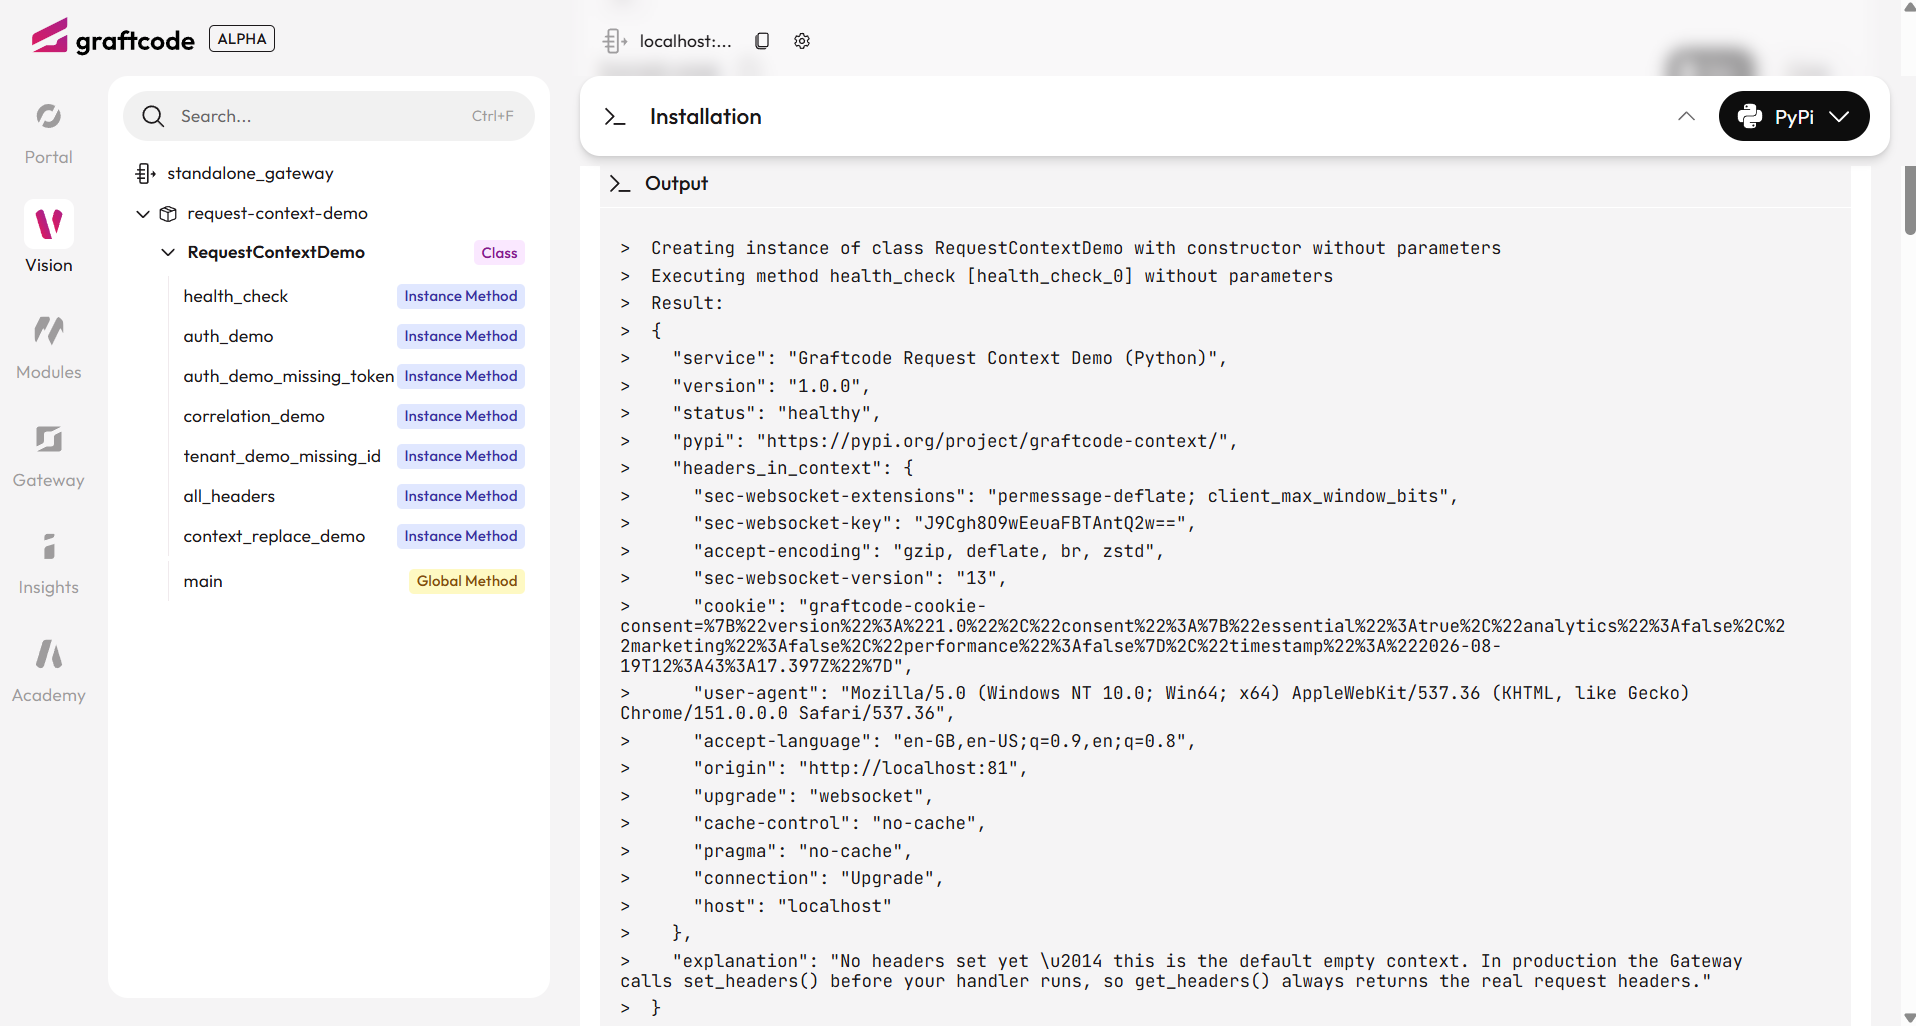
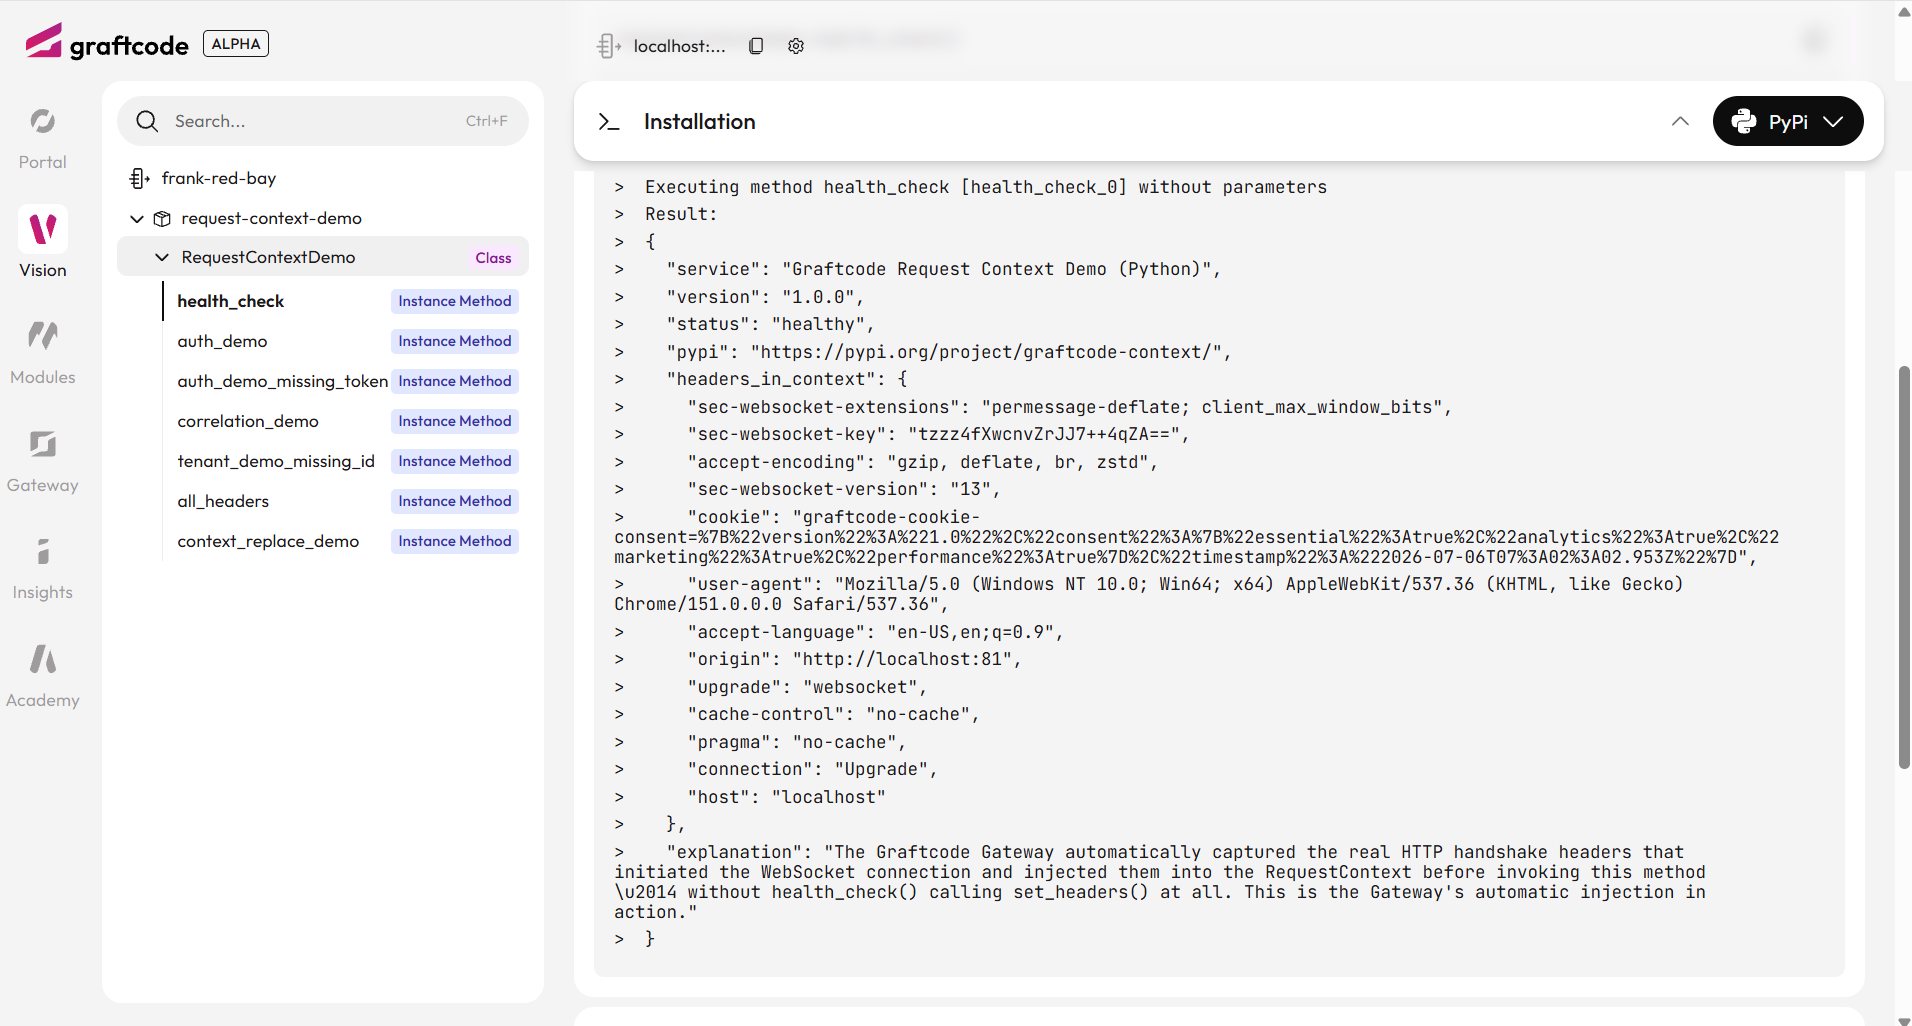
fix: Case 1 real Gateway injection, lint clean, docs accuracy
- health_check(): remove simulated set_headers(); Gateway now injects
  real WebSocket handshake headers automatically (no context bleed,
  verified against live Vision run)
- Fix Dict -> dict (F821 ruff errors) in request_context_demo.py
- Remove all PYTHONPATH=src references from README, blog, demo.py
- Remove sys.path.insert from demo.py; delete stale src/__init__.py
- Rename main -> _main in demo.py to hide from gg Vision scanner
- Fix '8 cases' -> '7 cases' in docker-compose.vision.yml and pyproject.toml
- Update README, blog, context.md: flow diagrams, comparison tables,
  and project structure tree to reflect real Gateway injection for Case 1
  and explicit set_headers() for Cases 2-7
- Update blog flow diagram and module docstring for same accuracy
- New Case 1 screenshots (real live browser headers, not hardcoded)
- Fix blog/assets/case 1 b.png filename casing in image reference

diff --git a/vision/request_context_demo.py b/vision/request_context_demo.py
@@ -12,16 +12,20 @@ How the demo works
 ------------------
 In production the Graftcode Gateway calls ``RequestContext.current().set_headers()``
 before your handler runs, binding the inbound request headers into the active
-context. Because Graftcode Vision calls methods directly (not via HTTP), each
-method simulates that step explicitly so you can see exactly what the Gateway
-does — your handler code (``RequestContext.current().get_headers()``) is
-identical in both cases.
+context. This demo shows both sides of that behaviour:
+
+- **Case 1** (``health_check``): the Gateway injects the real WebSocket handshake
+  headers automatically — the handler calls only ``get_headers()``, never
+  ``set_headers()``. This is the purest demonstration of Gateway injection.
+- **Cases 2–7**: each method calls ``set_headers()`` explicitly with headers built
+  from the Vision form input, making the injection step visible. Your handler
+  code (``get_headers()``) is identical in both Vision and production.
 
 API used (graftcode-context 1.0.0)
 -----------------------------------
-- ``RequestContext.current()``          — returns the active RequestContext
-- ``ctx.set_headers(headers)``          — sets headers on the context (Gateway calls this)
-- ``ctx.get_headers()``                 — returns the bound headers (your handler calls this)
+- ``RequestContext.current()``     — returns the active RequestContext
+- ``ctx.set_headers(headers)``     — sets headers on the context (Gateway calls this)
+- ``ctx.get_headers()``            — returns the bound headers (your handler calls this)
 """
 
 import uuid
@@ -60,11 +64,15 @@ class RequestContextDemo:
         """
         Case 1 — Health check.
 
-        Calls RequestContext.current().get_headers() with no headers set,
-        showing the empty default state. In production the Gateway always
-        populates the context before your handler runs.
+        No set_headers() call here — the Graftcode Gateway automatically
+        captures the real HTTP headers that initiated the WebSocket connection
+        and injects them into the RequestContext *before* calling this handler.
 
-        Gateway equivalent: GET /
+        get_headers() reads back whatever the Gateway injected — real headers
+        from the live connection (host, user-agent, upgrade, sec-websocket-*,
+        x-forwarded-for, etc.).
+
+        Gateway equivalent: GET / (WebSocket upgrade request)
         """
         ctx = RequestContext.current()
         result = {
@@ -74,10 +82,11 @@ class RequestContextDemo:
             "pypi": "https://pypi.org/project/graftcode-context/",
             "headers_in_context": ctx.get_headers(),
             "explanation": (
-                "No headers set yet — this is the default empty context. "
-                "In production the Gateway calls set_headers() before your "
-                "handler runs, so get_headers() always returns the real "
-                "request headers."
+                "The Graftcode Gateway automatically captured the real HTTP "
+                "handshake headers that initiated the WebSocket connection and "
+                "injected them into the RequestContext before invoking this "
+                "method — without health_check() calling set_headers() at all. "
+                "This is the Gateway's automatic injection in action."
             ),
         }
         return json.dumps(result, indent=2, default=str)
@@ -117,7 +126,10 @@ class RequestContextDemo:
 
         token_type, _, token_value = auth.partition(" ")
         result = {
-            "message": "Authorization header read from RequestContext — zero boilerplate",
+            "message": (
+                "Authorization header read from RequestContext"
+                " — zero boilerplate"
+            ),
             "token_type": token_type,
             "token_preview": (
                 f"{token_value[:16]}..." if len(token_value) > 16 else token_value
@@ -181,7 +193,7 @@ class RequestContextDemo:
 
         Gateway equivalent: GET /correlation-demo
         """
-        incoming: Dict[str, str] = {}
+        incoming: dict[str, str] = {}
         if x_correlation_id:
             incoming["X-Correlation-Id"] = x_correlation_id
 
@@ -265,7 +277,7 @@ class RequestContextDemo:
 
         Gateway equivalent: GET /all-headers with multiple headers set.
         """
-        incoming: Dict[str, str] = {}
+        incoming: dict[str, str] = {}
         if authorization:
             incoming["Authorization"] = authorization
         if x_correlation_id:
@@ -327,7 +339,10 @@ class RequestContextDemo:
         result = {
             "after_first_set_headers": first_snapshot,
             "after_second_set_headers": second_snapshot,
-            "tenant_changed": first_snapshot.get("X-Tenant-Id") != second_snapshot.get("X-Tenant-Id"),
+            "tenant_changed": (
+                first_snapshot.get("X-Tenant-Id")
+                != second_snapshot.get("X-Tenant-Id")
+            ),
             "explanation": (
                 "set_headers() replaces all headers on the RequestContext instance. "
                 "The Gateway calls this once per request before your handler runs, "

diff --git a/vision/demo.py b/vision/demo.py
@@ -5,36 +5,32 @@ vision/demo.py
 Local runner — exercises all 7 RequestContextDemo methods without Docker.
 
 Usage (bash/zsh):
-    PYTHONPATH=src python vision/demo.py
+    python vision/demo.py
 
 Usage (PowerShell):
-    $env:PYTHONPATH="src"; python vision/demo.py
+    python vision/demo.py
 
 All cases are called in sequence and their results printed as JSON.
 """
 
 import json
-import sys
-import os
 
 
-def main() -> None:
-    sys.path.insert(0, os.path.join(os.path.dirname(__file__), "..", "src"))
-
+def _main() -> None:
     from request_context_demo import RequestContextDemo  # noqa: E402
 
     SEP = "=" * 62
     demo = RequestContextDemo()
 
     CASES = [
-        ("Case 1 — Health Check",                              demo.health_check),
-        ("Case 2 — Auth Demo (success)",                       lambda: demo.auth_demo()),
-        ("Case 3 — Auth Demo (missing token / 401)",           demo.auth_demo_missing_token),
-        ("Case 4 — Correlation ID (auto-generated)",           lambda: demo.correlation_demo()),
-        ("Case 4b — Correlation ID (provided)",                lambda: demo.correlation_demo("req-5f3a-2026")),
-        ("Case 5 — Tenant ID missing (400)",                   demo.tenant_demo_missing_id),
-        ("Case 6 — All Headers",                               demo.all_headers),
-        ("Case 7 — Context Replace Demo",                      demo.context_replace_demo),
+        ("Case 1 — Health Check",                              demo.health_check),  # noqa: E501
+        ("Case 2 — Auth Demo (success)",                       lambda: demo.auth_demo()),  # noqa: E501
+        ("Case 3 — Auth Demo (missing token / 401)",           demo.auth_demo_missing_token),  # noqa: E501
+        ("Case 4 — Correlation ID (auto-generated)",           lambda: demo.correlation_demo()),  # noqa: E501
+        ("Case 4b — Correlation ID (provided)",                lambda: demo.correlation_demo("req-5f3a-2026")),  # noqa: E501
+        ("Case 5 — Tenant ID missing (400)",                   demo.tenant_demo_missing_id),  # noqa: E501
+        ("Case 6 — All Headers",                               demo.all_headers),  # noqa: E501
+        ("Case 7 — Context Replace Demo",                      demo.context_replace_demo),  # noqa: E501
     ]
 
     print(SEP)
@@ -56,4 +52,4 @@ def main() -> None:
 
 
 if __name__ == "__main__":
-    main()
+    _main()

diff --git a/README.md b/README.md
@@ -112,7 +112,11 @@ python-request-context/
 │   ├── __init__.py
 │   ├── test_request_context.py   # RequestContext unit tests
 │   └── test_request_context_demo.py  # Integration tests against demo methods
+├── blog/
+│   ├── build-context-aware-python-services.md
+│   └── assets/                   # Screenshots used in the blog post
 ├── conftest.py                   # pytest path setup
+├── context.md                    # Setup cheat sheet and expected outputs
 ├── pytest.ini
 ├── requirements.txt              # graftcode-context>=1.0.0
 ├── requirements-dev.txt
@@ -166,7 +170,7 @@ Override host and ports when auto-detect from the browser does not match your lo
 
 | # | Method | Inputs | What it demonstrates |
 |---|--------|--------|----------------------|
-| 1 | `health_check()` | none | `RequestContext.current().get_headers()` on an empty context — what you see before any headers are set |
+| 1 | `health_check()` | none | Gateway-injected WebSocket handshake headers visible via `get_headers()` — proves the Gateway does the injection automatically |
 | 2 | `auth_demo(authorization)` | `authorization` string | Gateway pattern: `set_headers({"Authorization": ...})` → `get_headers()` |
 | 3 | `auth_demo_missing_token()` | none | Handler detecting absent `Authorization` → 401-style error response |
 | 4 | `correlation_demo(x_correlation_id)` | optional ID string | Propagate a supplied ID; auto-generate a UUID when the field is blank |
@@ -177,17 +181,20 @@ Override host and ports when auto-detect from the browser does not match your lo
 ### How Vision executes each case
 
 ```
-You type a value in the Vision form (e.g. "Bearer my-token")
+You click "Run" on a method in Vision
         ↓
-Vision sends it over WebSocket (ws://localhost:80/ws) to gg
+Vision sends any form inputs over WebSocket (ws://localhost:80/ws) to gg
         ↓
-gg calls the method with your input as a Python argument
+gg calls the method with your inputs as Python arguments
         ↓
-The method calls RequestContext.current().set_headers({"Authorization": your_value})
+  • Case 1: the Gateway already injected real WebSocket handshake headers before
+    calling the handler — health_check() calls get_headers() directly, no set_headers()
+  • Cases 2–7: the method calls set_headers({...}) with headers built from your form input,
+    then reads them back via get_headers()
         ↓
-A real RequestContext is populated with that header in memory
+A real RequestContext is populated with those headers in memory
         ↓
-get_headers() reads it back — live, from the ContextVar
+get_headers() reads them back — live, from the ContextVar
         ↓
 Result is serialised to JSON and returned to Vision — displayed in the UI
 ```
@@ -214,12 +221,12 @@ Then run the local demo script — exercises all cases and prints JSON output:
 
 **bash / zsh:**
 ```bash
-PYTHONPATH=src python vision/demo.py
+python vision/demo.py
 ```
 
 **PowerShell:**
 ```powershell
-$env:PYTHONPATH = "src"; python vision/demo.py
+python vision/demo.py
 ```
 
 ---
@@ -259,12 +266,12 @@ pytest tests/test_request_context.py -v
 
 | | Graftcode Vision (this demo) | Real Graftcode Gateway (production) |
 |---|---|---|
-| **Who sets headers?** | Each demo method calls `RequestContext.current().set_headers()` explicitly | The Gateway calls it automatically — your handler never sees this code |
-| **What gets bound?** | The values you type into the Vision form | The HTTP headers from the inbound client request (JWT, tenant ID, correlation ID, etc.) |
+| **Who sets headers?** | Case 1: the Gateway injects real WebSocket handshake headers automatically. Cases 2–7: each method calls `set_headers()` explicitly with form input values | The Gateway calls it automatically — your handler never sees this code |
+| **What gets bound?** | Case 1: real live connection headers. Cases 2–7: the values you type into the Vision form | The HTTP headers from the inbound client request (JWT, tenant ID, correlation ID, etc.) |
 | **How you read headers** | `RequestContext.current().get_headers()` | Identical — same one-liner |
 | **Output** | Live JSON reflecting the real `RequestContext` state | Same — your service reads real validated headers |
 
-The binding code is shown in the demo so you can **see** the mechanism. In production it is invisible.
+Case 1 is the purest demonstration: `health_check()` never calls `set_headers()` — the Gateway does it transparently. Cases 2–7 make the injection step visible so you can see the exact mechanism.
 
 ### Server side (your deployed service)
 

diff --git a/blog/build-context-aware-python-services.md b/blog/build-context-aware-python-services.md
@@ -261,13 +261,13 @@ No framework, no extra tooling — just Python. You can run our interactive demo
 **bash / zsh:**
 ```bash
 pip install -r requirements-dev.txt
-PYTHONPATH=src python vision/demo.py
+python vision/demo.py
 ```
 
 **PowerShell:**
 ```powershell
 pip install -r requirements-dev.txt
-$env:PYTHONPATH="src"; python vision/demo.py
+python vision/demo.py
 ```
 
 The script exercises all 7 demo cases directly and prints the live JSON output to your terminal, injecting context locally exactly the same way the Gateway does in production.
@@ -445,7 +445,7 @@ To prove these concepts in action, we expose all 7 demo cases through **Graftcod
 
 | # | Method | Inputs | What it demonstrates |
 |---|--------|--------|----------------------|
-| 1 | `health_check()` | none | `RequestContext.current().get_headers()` on an empty context — what you see before any headers are set |
+| 1 | `health_check()` | none | Gateway-injected WebSocket handshake headers visible via `get_headers()` — proves the Gateway does the injection automatically |
 | 2 | `auth_demo(authorization)` | `authorization` string | Gateway pattern: bind `Authorization` header → read it back via `RequestContext` |
 | 3 | `auth_demo_missing_token()` | none | What a handler sees when no `Authorization` is present → 401-style error response |
 | 4 | `correlation_demo(x_correlation_id)` | optional ID string | Propagate a supplied ID; auto-generate a UUID when the field is blank |
@@ -456,15 +456,18 @@ To prove these concepts in action, we expose all 7 demo cases through **Graftcod
 ### How Vision Executes Each Case
 
 ```
-You type a value in the Vision form (e.g. "Bearer my-token")
+You click "Run" on a method in Vision
         ↓
-Vision sends it over WebSocket (ws://localhost:80/ws) to gg
+Vision sends any form inputs over WebSocket (ws://localhost:80/ws) to gg
         ↓
-gg calls the method with your input as a Python argument
+gg calls the method with your inputs as Python arguments
         ↓
-The method calls RequestContext.current().set_headers({"Authorization": your_value})
+  • Case 1: the Gateway already injected real WebSocket handshake headers before
+    calling the handler — health_check() calls get_headers() directly, no set_headers()
+  • Cases 2–7: the method calls set_headers({...}) with headers built from your form input,
+    then reads them back via get_headers()
         ↓
-A real RequestContext is populated in memory with that header bound
+A real RequestContext is populated with those headers in memory
         ↓
 The handler code reads RequestContext.current().get_headers() — live, from memory
         ↓
@@ -483,7 +486,7 @@ Result is serialised to JSON and returned to Vision — displayed in the UI
 
 ### Case 1: Health Check
 ![Case 1: Health Check part 1](assets/case%201%20a.png)
-![Case 1: Health Check part 2](assets/Case%201%20b.png)
+![Case 1: Health Check part 2](assets/case%201%20b.png)
 **Explanation:** The root endpoint shows our service is healthy. Notice that the context isn't empty — the Graftcode Gateway automatically captured the real HTTP headers that initiated the WebSocket connection (like `user-agent` and `host`) and injected them into the `RequestContext` before invoking our method.
 
 ### Case 2: Auth Demo (With Bearer Token)

diff --git a/context.md b/context.md
@@ -38,11 +38,15 @@ Navigate to `http://localhost:81/GV` → expand **RequestContextDemo** in the le
   "pypi": "https://pypi.org/project/graftcode-context/",
   "headers_in_context": {
     "host": "localhost",
-    "user-agent": "Mozilla/5.0 ...",
+    "user-agent": "<real browser user-agent from the live WebSocket connection>",
     "upgrade": "websocket",
-    "...": "..."
+    "connection": "Upgrade",
+    "sec-websocket-version": "13",
+    "sec-websocket-key": "<real key generated by the browser>",
+    "x-forwarded-for": "<client IP>",
+    "... other handshake headers ...": "..."
   },
-  "explanation": "Even though we didn't explicitly set any headers, the Graftcode Gateway automatically captured the HTTP handshake headers that initiated the WebSocket connection and injected them into the RequestContext before calling our function."
+  "explanation": "The Graftcode Gateway automatically captured the real HTTP handshake headers that initiated the WebSocket connection and injected them into the RequestContext before invoking this method — without health_check() calling set_headers() at all. This is the Gateway's automatic injection in action."
 }
 ```
 
